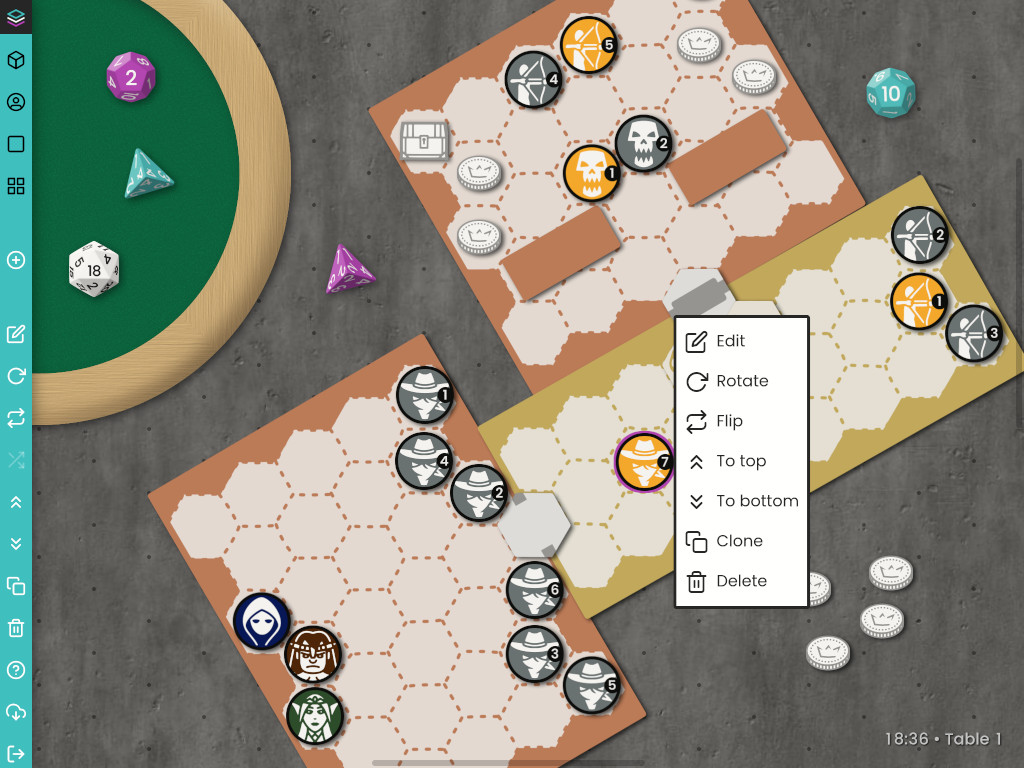
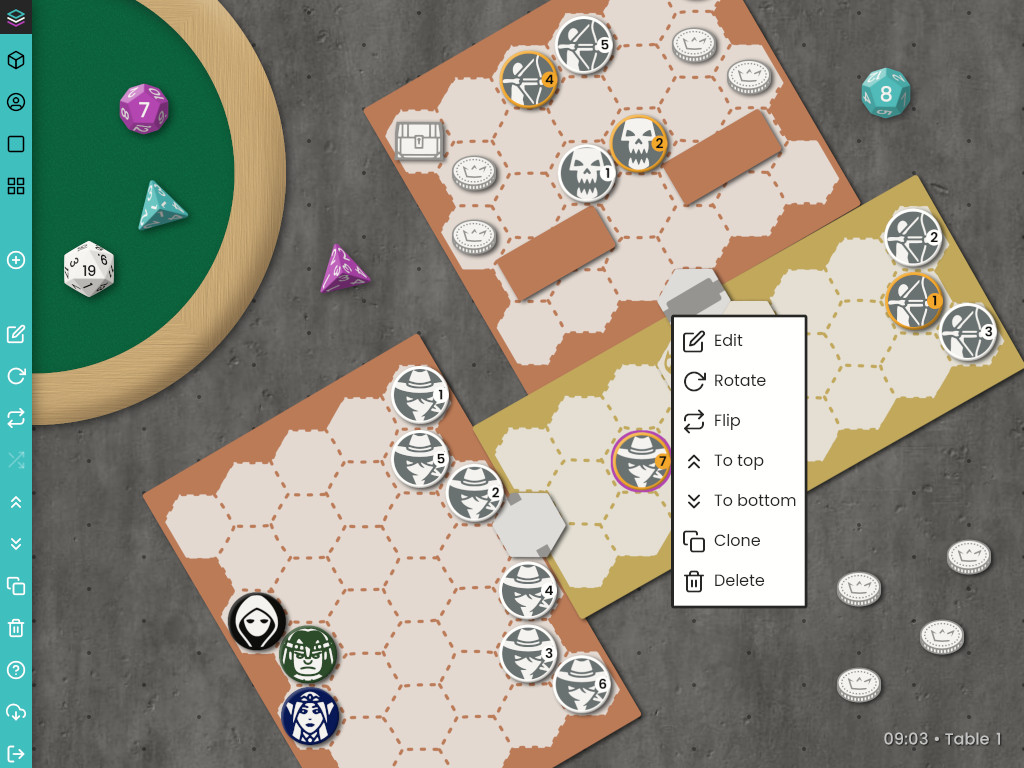
improved token borders, added no-border option

diff --git a/src/scss/components/piece.scss b/src/scss/components/piece.scss
@@ -37,6 +37,8 @@ $piece-shadow-y: 2;
 $piece-shadow-direction: math.atan(math.div($piece-shadow-x, $piece-shadow-y));
 $piece-shadow-length: math.sqrt($piece-shadow-x * $piece-shadow-x + $piece-shadow-y * $piece-shadow-y);
 
+$piece-highlights: 1.5px 1.5px 1px -.5px $color-white-25a inset, -1.5px -1.5px 1px -.5px $color-black-35a inset;
+
 @function piece-shadow($deg, $blur, $color) {
   @return
   math.sin($deg + $piece-shadow-direction) * $piece-shadow-length * 1px
@@ -181,6 +183,7 @@ $piece-jitter-b: 0 .266 .533 .8 .066 .333 .6 .866 .133 .4 .666 .933 .2 .466 .733
     pointer-events: none;
     position: relative;
     white-space: nowrap;
+    z-index: 99; // within the piece
 
     .icon {
       height: 1em;
@@ -358,22 +361,14 @@ $piece-jitter-b: 0 .266 .533 .8 .066 .333 .6 .866 .133 .4 .666 .933 .2 .466 .733
 .piece-token {
   #{'--fbg-piece-color'}: $piece-color;
   #{'--fbg-piece-color-invert'}: $color-wb-fg;
+  #{'--fbg-border-color'}: $piece-color;
+  #{'--fbg-border-color-invert'}: $color-wb-fg;
 
   background-color: var(--fbg-piece-color); // tile background
-  border: $piece-border-size solid var(--fbg-piece-color);
   border-radius: $piece-tile-size;
   margin: $piece-margin;
 
   $is-n-size: 1rem;
-
-  &.is-piececolor {
-    border-color: $color-gray-95;
-
-    &.is-n::after {
-      background-color: $color-gray-95;
-      color: $color-wb-fg;
-    }
-  }
 
   // different labels for square tokens
   @for $v from 1 through 32 {
@@ -381,18 +376,18 @@ $piece-jitter-b: 0 .266 .533 .8 .066 .333 .6 .866 .133 .4 .666 .933 .2 .466 .733
       align-items: flex-start; // mainly for labels
 
       .label {
-        $label-offset-x: -8px;
-        top: $piece-tile-size * $v - $piece-border-size * 2 - $piece-margin * 2 + $label-offset-x;
-        transform-origin: center math.div($piece-tile-size * $v - $piece-border-size * 2 - $piece-margin * 2 - 1, -2) - $label-offset-x;
+        $label-offset-x: -10px;
+        top: $piece-tile-size * $v - $piece-margin * 2 + $label-offset-x;
+        transform-origin: center math.div($piece-tile-size * $v - $piece-margin * 2 - 1, -2) - $label-offset-x;
       }
     }
   }
 
   &.is-n::after {
     align-items: center;
-    background-color: var(--fbg-piece-color);
+    background-color: var(--fbg-border-color);
     border-radius: 100%;
-    color: var(--fbg-piece-color-invert);
+    color: var(--fbg-border-color-invert);
     display: flex;
     flex-direction: row;
     font-size: .85em;
@@ -401,7 +396,7 @@ $piece-jitter-b: 0 .266 .533 .8 .066 .333 .6 .866 .133 .4 .666 .933 .2 .466 .733
     justify-content: center;
     margin-top: math.div($is-n-size, -2);
     position: absolute;
-    right: $piece-border-size * -1 + .75px;
+    right: 0;
     top: 50%;
     width: $is-n-size;
   }
@@ -439,6 +434,13 @@ $piece-jitter-b: 0 .266 .533 .8 .066 .333 .6 .866 .133 .4 .666 .933 .2 .466 .733
     mask-image: none !important; // sass-lint:disable-line no-important
   }
 
+  &.is-border-0 {
+    &.is-n::after {
+      background-color: var(--fbg-piece-color);
+      color: var(--fbg-piece-color-invert);
+    }
+  }
+
   // --- quality settings ---
 
   .is-quality-medium & {
@@ -456,6 +458,7 @@ $piece-jitter-b: 0 .266 .533 .8 .066 .333 .6 .866 .133 .4 .666 .933 .2 .466 .733
 
   .is-quality-high &,
   .is-quality-ultra & {
+    // --- shadows ---
     @include shadows(
       $piece-shadow,
       $piece-shadow-60,
@@ -466,6 +469,17 @@ $piece-jitter-b: 0 .266 .533 .8 .066 .333 .6 .866 .133 .4 .666 .933 .2 .466 .733
       $piece-shadow-270,
       $piece-shadow-300
     );
+
+    // --- highlights ---
+    box-shadow: $piece-highlights, 0 0 0 $piece-border-size var(--fbg-border-color) inset;
+
+    &.is-border-0 {
+      box-shadow: $piece-highlights;
+
+      &.is-n::after {
+        opacity: .85;
+      }
+    }
   }
 }
 

diff --git a/src/html/privacy.html b/src/html/privacy.html
@@ -54,13 +54,13 @@
 
             <p>All data in a room - the pieces, the game board and everything else on it - is stored separate from other room and other servers. Only those that have entered a particular room on a particular server can see/access that data.</p>
 
-            <p>Rooms do not store information about the players, only the current state of it's tables' layout, the pieces and it's library / assets. Rooms also do not store the information mentioned above under <em>Access data</em>.</p>
+            <p>Rooms do not store information about the players, only the current state of its tables' layout, the pieces and its library / assets. Rooms also do not store the information mentioned above under <em>Access data</em>.</p>
 
             <p>All data in a room is shared with all people that enter it. Everyone in a room can download some or all this data at once (so-called snapshots) at any time.</p>
 
             <p>Rooms and all their data are deleted from this server after a certain period of inactivity of any table. See the information below the join screen for the actual value of this period - usually 48 hours. If everyone leaves a room and nobody enters it again for that period, it and all contained game data & assets are automatically deleted.</p>
 
-            <p>After a room is deleted, it's name is free again for others to use. However, no data is taken over from the previous room with the same name.</p>
+            <p>After a room is deleted, its name is free again for others to use. However, no data is taken over from the previous room with the same name.</p>
 
             <h3>Snapshots</h3>
 

diff --git a/src/php/FreeBeeGeeAPI.php b/src/php/FreeBeeGeeAPI.php
@@ -315,7 +315,7 @@ class FreeBeeGeeAPI
 
         // basic sanity tests
         if (filesize($zipPath) > $sizeLeft) {
-            // if the zip itself is too large, then it's content is probably too
+            // if the zip itself is too large, then its content is probably too
             $this->api->sendError(400, 'zip too large', 'SIZE_EXCEEDED', $issues);
         }
 
@@ -881,9 +881,9 @@ class FreeBeeGeeAPI
                 case 'c':
                     if (property_exists($piece, 'l') && $piece->l === 3) { // 3 = note
                         $validated->c =
-                            $this->api->assertIntegerArray('c', $value, 0, sizeof($this->stickyNotes) - 1, 1, 1);
+                            $this->api->assertIntegerArray('c', $value, 0, sizeof($this->stickyNotes) - 1, 1, 2);
                     } else {
-                        $validated->c = $this->api->assertIntegerArray('c', $value, 0, 15, 1, 1);
+                        $validated->c = $this->api->assertIntegerArray('c', $value, 0, 15, 1, 2);
                     }
                     break;
                 case 'n':

diff --git a/docs/datamodel.md b/docs/datamodel.md
@@ -6,9 +6,7 @@ It is not necessary to read/understand this to create templates. This informatio
 
 ## Assets
 
-An asset describes a single, possibly multi-sided graphical element that is
-available in the table's library and will be used by the *Pieces*. Assets are unique and are not directly placed
-on the table - they do not have a state like position, rotation, scale, ...
+An *Asset* describes a single, possibly multi-sided graphical element that is available in the table's library and will be used by the *Pieces*. Each *Asset* is unique and can't be directly placed on the table - it does not have a state like position, rotation, scale, ...
 
 A basic example:
 
@@ -28,29 +26,55 @@ A basic example:
 ```
 
 `id`
-: The ID of the asset (16-digit hex).
+: The ID of the *Asset* (16-digit hex).
 
 `name`
-: The name of the asset. Used e.g. in the library.
+: The name of the *Asset*. Used e.g. in the library.
 
 `media`
-: An array of media files. Supported are `*.png`, `*.svg` and `*.jpg`. Which of those is shown when depends on the data object using this asset (usually a *Piece*).
+: An array of media files. Supported are `*.png`, `*.svg` and `*.jpg`. Which of those is shown when depends on the data object using this *Asset* (usually a *Piece*).
 
 `w`
-: The default width of the asset in grid spaces.
+: The default width of the *Asset* in grid spaces.
 
 `h`
-: The default height of the asset in grid spaces.
+: The default height of the *Asset* in grid spaces.
 
 `bg`
-: The background color of the asset. Will be visible while loading the media and in it's transparent parts. Can be an RGB code, `transparent` or `piece`. Piece-colored assets will use their UI/border color (if any) as background color.
+: The background color of the *Asset*. See *Media filenames* below for possible values.
 
 `type`
-: The type of the asset. Can be `tile`, `token`, `overlay` or `other`. This will usually define the type of piece this asset will use.
+: The type of the *Asset*. Can be `tile`, `token`, `overlay` or `other`. This will usually define the type of piece this *Asset* will use.
+
+### Media filenames
+
+Media (image) files should be named using the following syntax. This allows FBG to sort them automatically into the library and set their meta data.
+
+```
+mainName.[secondaryName.]{x}x{y}x{s}.[color.].{ext}
+```
+
+`mainName`
+: A camelcase name of the *Asset* for the media library. Will be reformated as e.g. `Main Name`.
+
+`secondaryName`
+: An optional secondary camelcase name to be shown after a comma in the library if present. Will be reformated e.g. as `Main Name, Secondary Name`.
+
+`x`
+: The X-size of the tile/token in grid spaces.
+
+`y`
+: The Y-size of the tile/token in grid spaces.
+
+`s`
+: The side this media represents, typically `1` or `2` but an *Asset* can have more (usually dice or enemy/color variants). FBG will cycle through this when pieces are flipped.
+
+`color`
+: A color value for this *Asset* as HTML Hex Color value (without #) and usually used as background color for the piece below the media, e.g. 'A0B1C2'. Defaults to `808080` if not specified. Will be shown as place-holder color while the *Asset* is loaded from the server, so it is recommended to set it to the media's average color value. If the media has transparent parts (for png/svg only), this color will shine through this areas. `color` can also be set to 'transparent' (no color) or `piece`. In the latter case, the background color can be set by the user in the piece's edit dialog to one of those provided in the *Template* (see below).
 
 ### Base images
 
-For some assets it is useful to have a common base layer and the individual media shown on top of that, e.g. dice often use a `png` background (the shape of the die) and a `svg` media on top (the die value).
+Sometimes it is useful for an *Asset* to have a common base layer and the individual media shown on top of that, e.g. dice often use a `png` background (the shape of the die) and a `svg` media on top (the die value).
 
 ```json
   {
@@ -70,7 +94,7 @@ For some assets it is useful to have a common base layer and the individual medi
 
 ### Default back sides
 
-Single-sided assets can have a default back side (showing the FBG logo), so they can be flipped over. This is indicated by using `##BACK##` as image name:
+A single-sided *Asset* can have a default back side (showing the FBG logo), so it can be flipped over. This is indicated by using `##BACK##` as image name:
 
 ```json
 {
@@ -85,7 +109,7 @@ Single-sided assets can have a default back side (showing the FBG logo), so they
 
 ## Library
 
-The library object holds information about all known assets, sorted by asset type.
+The library object holds information about each *Asset*, sorted by *Asset* type.
 
 ```json
 {
@@ -107,11 +131,11 @@ The library object holds information about all known assets, sorted by asset typ
 }
 ```
 
-If a room's library does not have assets of a particular type, the entry will be missing.
+If a room's library does not have any *Asset* of a particular type, the entry will be missing.
 
 ## Pieces
 
-When assets are displayed on a table and become 'tangible', they are called pieces. Pieces extend the asset information by data like position, rotation, etc. Multiple pieces can share the same asset.
+When an *Asset* is displayed on a table and become 'tangible', and is called piece. A pieces extends its *Asset* information by data like position, rotation, etc. Multiple pieces can share the same *Asset*.
 
 A minimal piece contains the following information:
 
@@ -130,10 +154,10 @@ A minimal piece contains the following information:
 : The ID of the piece.
 
 `l`
-: The layer (number) to show the piece in. `1` = tile, `2` = overlay, `3` = note, `4` = token, '5' = other. In theory the asset type does not have to match the layer it is shown in, but currently e.g. only tile assets are used in the tile layer.
+: The layer (number) to show the piece in. `1` = tile, `2` = overlay, `3` = note, `4` = token, '5' = other. In theory the *Asset* type does not have to match the layer it is shown in, but currently e.g. only a tile *Asset* is used in the tile layer.
 
 `a`
-: The ID of the asset.
+: The ID of the *Asset*.
 
 `x`
 : The x-coordinate of the center of the piece on the table, in px.
@@ -156,7 +180,7 @@ In addition, pieces can have the following optional properties. If omitted, they
 : The rotation of the piece. Can be `0`, `60`, `90`, `120`, `180`, `240`, `270`  or `300`. Defaults to `0`.
 
 `side`
-: The side of the piece currently shown, usually one of the asset's media files. Defaults to `0`.
+: The side of the piece currently shown, usually one of its *Asset* media files. Defaults to `0`.
 
 `n`
 : The number of the piece. This is a small digit displayed on the piece to distinguish multiple pieces with the same artwork (e.g. different Goblins). Can be `0`..`15`. Defaults to `0` = none.
@@ -172,7 +196,7 @@ In addition, pieces can have the following optional properties. If omitted, they
 
 ## Templates
 
-A template, a.k.a. snapshot, describes a table setup for a particular game.
+A *Template*, a.k.a. snapshot, describes a table setup for a particular game.
 
 ```json
 {
@@ -193,52 +217,52 @@ A template, a.k.a. snapshot, describes a table setup for a particular game.
 ```
 
 `type`
-: The type of table this template uses. Can be either `grid-square` or `grid-hex`.
+: The type of table this *Template* uses. Can be either `grid-square` or `grid-hex`.
 
 `version`
-: The version of the template / snapshot itself. Uses [Semantic Versioning](https://semver.org/). Saved templates will contain the same version as the FBG version, but you can use your own version in custom templates.
+: The version of the *Template* / snapshot itself. Uses [Semantic Versioning](https://semver.org/). A downloaded snapshot will always contain the same version as the FBG version.
 
 `engine`
-: The FBG engine this template should work with. Uses [Semantic Versioning](https://semver.org/), and npm-style caret ranges to define version-x-or-higher.
+: The FBG engine this *Template* should work with. Uses [Semantic Versioning](https://semver.org/), and npm-style caret ranges to define version-x-or-higher.
 
 `colors`
 : A series of colors available as border-colors etc. on the table. Key-Value pairs with `name` and a `value` / RGB hex code. Minimum 1 required.
 
-The remaining template properties depend on the game type.
+The remaining *Template* properties depend on the game type.
 
 ### `grid-square` entries
 
-Templates using the `grid-square` type also have the following properties:
+A *Template* using the `grid-square` type also have the following properties:
 
 `gridSize`
 : The grid / minimum tile size in px.
 
 `gridHeight`
-: The height of this template/table in grid spaces.
+: The height of this *Template*/table in grid spaces.
 
 `gridWidth`
-: The width of this template/table in grid spaces.
+: The width of this *Template*/table in grid spaces.
 
 `snap`
-: Optional boolean property. If set to `false`, grid-snapping will be disabled for this template. It is on per default.
+: Optional boolean property. If set to `false`, grid-snapping will be disabled for this *Template*. It is on per default.
 
 ### `grid-hex` entries
 
-Templates using the `grid-hex` use hexes oriented with their flat sides up/down. They have the following additional properties:
+A *Template* using the `grid-hex` use hexes oriented with their flat sides up/down. They have the following additional properties:
 
 `gridSize`
 : The grid / minimum tile size in px. This equals the height of one hex (side-to-side).
 
 `gridHeight`
-: The height of this template/table in grid spaces.
+: The height of this *Template*/table in grid spaces.
 
 `gridWidth`
-: The width of this template/table in grid spaces.
+: The width of this *Template*/table in grid spaces.
 
 `snap`
-: Optional boolean property. If set to `false`, grid-snapping will be disabled for this template. It is on per default.
+: Optional boolean property. If set to `false`, grid-snapping will be disabled for this *Template*. It is on per default.
 
-Tiles for hex-templates are a bit complicated, as hex-forms usually do not fill squares. Tile images should therefore transparent PNGs with the hex shape placed in it's center. The images sould have the smallest possible multiple of 'gridSize' that can hold that hex shape. For example, a 1x1 hex needs a 2x1 canvas.
+Hex-tiles are a bit complicated, as hex-forms usually do not fill squares. Tile images should therefore transparent PNGs with the hex shape placed in its center. The images sould have the smallest possible multiple of 'gridSize' that can hold that hex shape. For example, a 1x1 hex needs a 2x1 canvas.
 
 ## Rooms
 
@@ -288,7 +312,7 @@ This JSON describes a whole room.
 : The room's library. Format is specified above.
 
 `templage`
-: The room's template. Format is specified above.
+: The room's *Template*. Format is specified above.
 
 `credits`
 : A Markdown string to be shown in the about modal.

diff --git a/CHANGELOG.md b/CHANGELOG.md
@@ -13,6 +13,7 @@ This is a breaking release, changing internal data structures. Old snapshots/roo
 * added multiple table background images (change via settings)
 * added setting and hotkey to toggle grid overlay (g, initially hidden)
 * added hotkey to toggle fullscreen (F11)
+* improved token borders, token now have a no-border option
 * improved generic game token / Go piece / bead (now in 8 colors)
 
 ### Other changes

diff --git a/docs/roadmap.md b/docs/roadmap.md
@@ -13,6 +13,7 @@ This document is part of the [FreeBeeGee documentation](DOCS.md). It contains a 
 * [X] toggle grid on/off (visual)
 * [X] use image masks for backsides
 * [X] fullscreen hotkey (F11)
+* [X] improved token look & no-border option
 * [ ] pre-release
   * [X] bugfixing
     * [X] unreadable piece numbers on white borders
